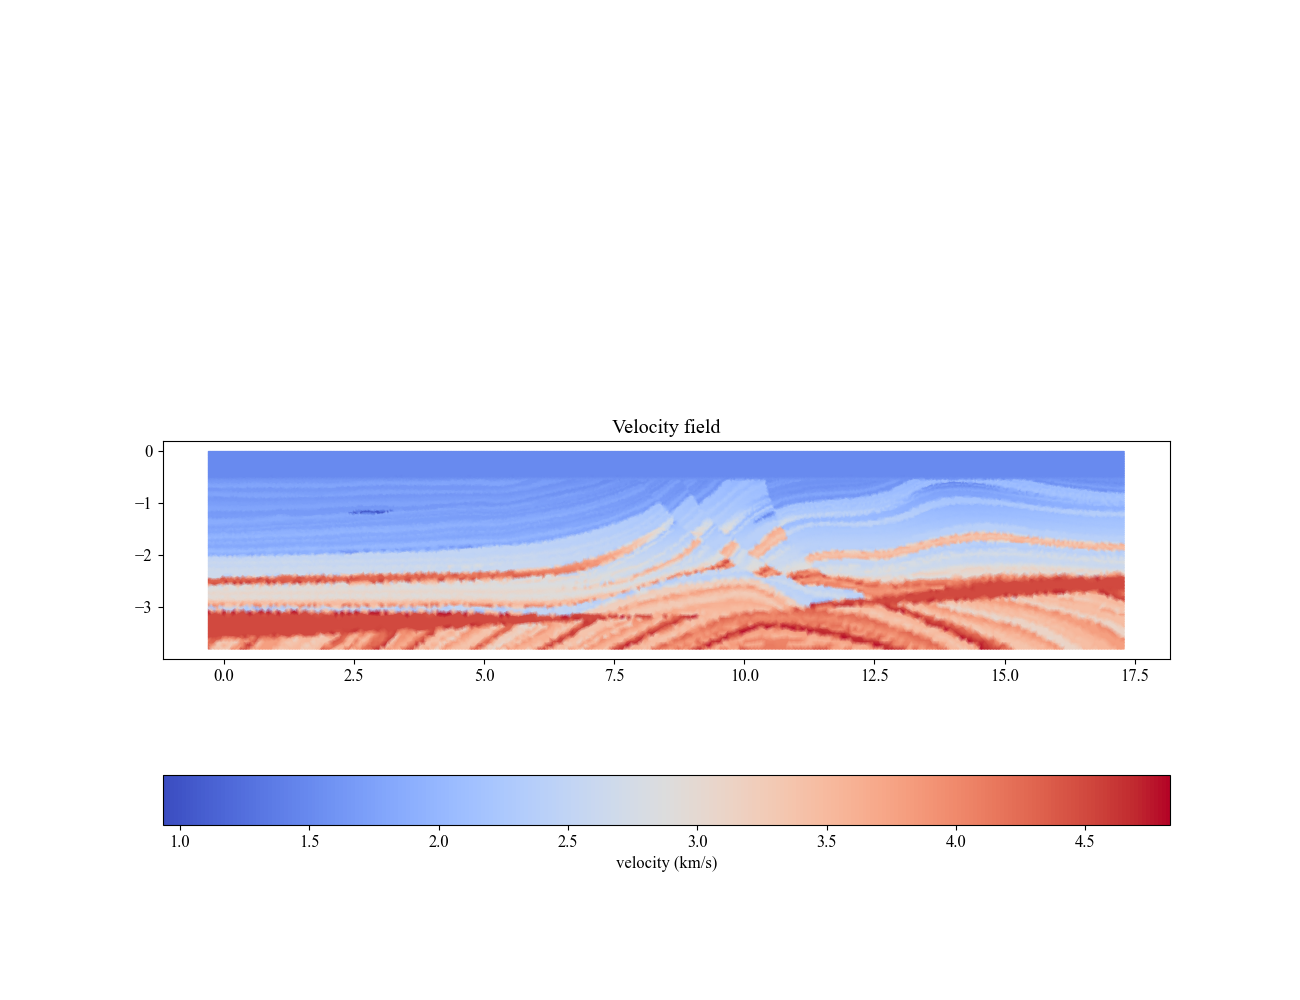
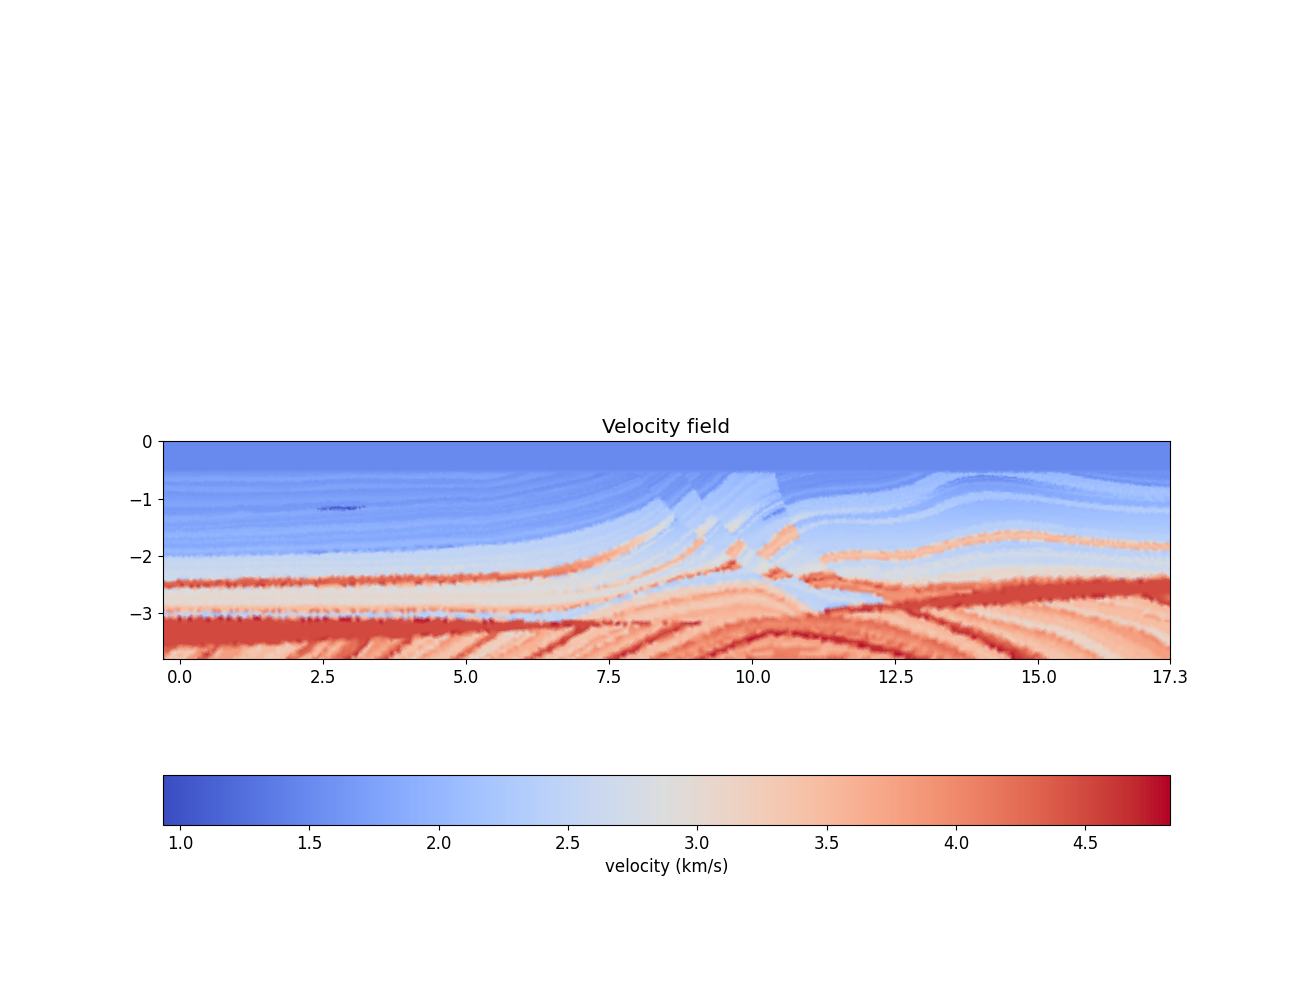
updating with correct image

diff --git a/generate_velocity_figure_v2.py b/generate_velocity_figure_v2.py
@@ -41,7 +41,7 @@ class Velocity_figure:
 
     def get_function_space(self):
         return fire.FunctionSpace(self.mesh, "KMV", 5)
-    
+
     def get_dof_coordinates(self):
         V = self.function_space
         x_mesh, y_mesh = fire.SpatialCoordinate(self.mesh)
@@ -101,14 +101,17 @@ class Velocity_figure:
         self.mesh.coordinates.dat.data[:, 1] = coordinates[:, 0]
 
         fig, axes = plt.subplots()
+
         im = fire.tripcolor(self.velocity, axes=axes, cmap='coolwarm')
-        # axes.axis("equal")
         axes.set_aspect("equal", "box")
         plt.title("Velocity field")
 
         cbar = fig.colorbar(im, orientation="horizontal")
         cbar.ax.set_xlabel("velocity (km/s)")
+        axes.set_xticks([0, 2.5, 5, 7.5, 10, 12.5, 15, 17.3])
+
         fig.set_size_inches(13, 10)
+        plt.margins(x=0, y=0)
 
         if output_filename is not None:
             plt.savefig(output_filename)
@@ -118,7 +121,7 @@ class Velocity_figure:
 
 
 if __name__ == "__main__":
-    velocity_filename = "/media/alexandre/T7 Shield/common_files/velocity_models/vp_marmousi-ii.hdf5"
+    velocity_filename = "/media/olender/T7 Shield/common_files/velocity_models/vp_marmousi-ii.hdf5"
     mesh_filename = "automatic_mesh.msh"
     Vel_obj = Velocity_figure(velocity_filename, mesh_filename)
     Vel_obj.plot(output_filename="velocity_model_marmousi.png", show=True)
